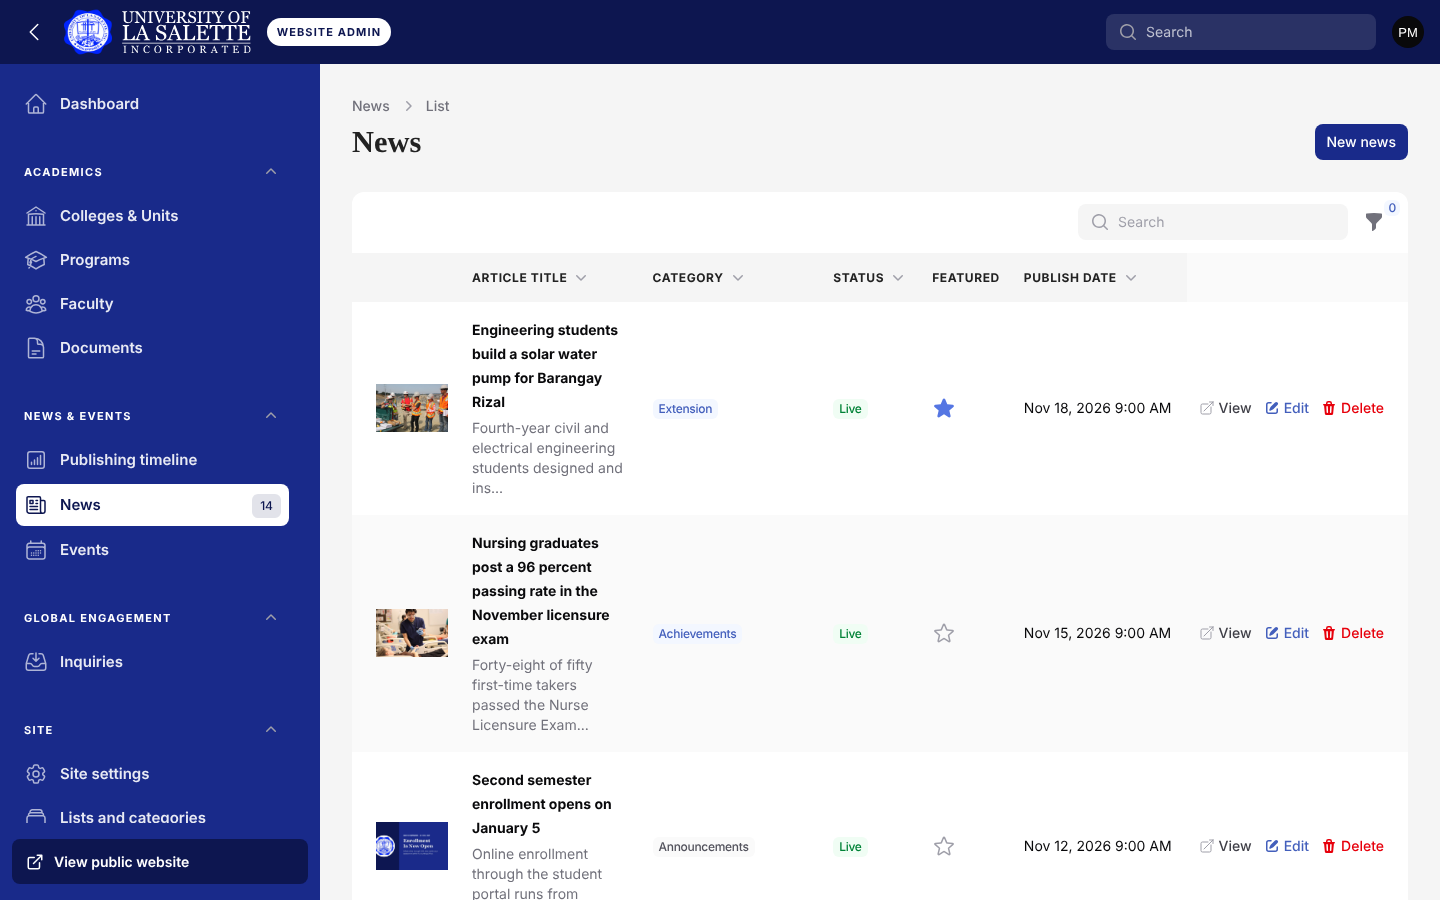
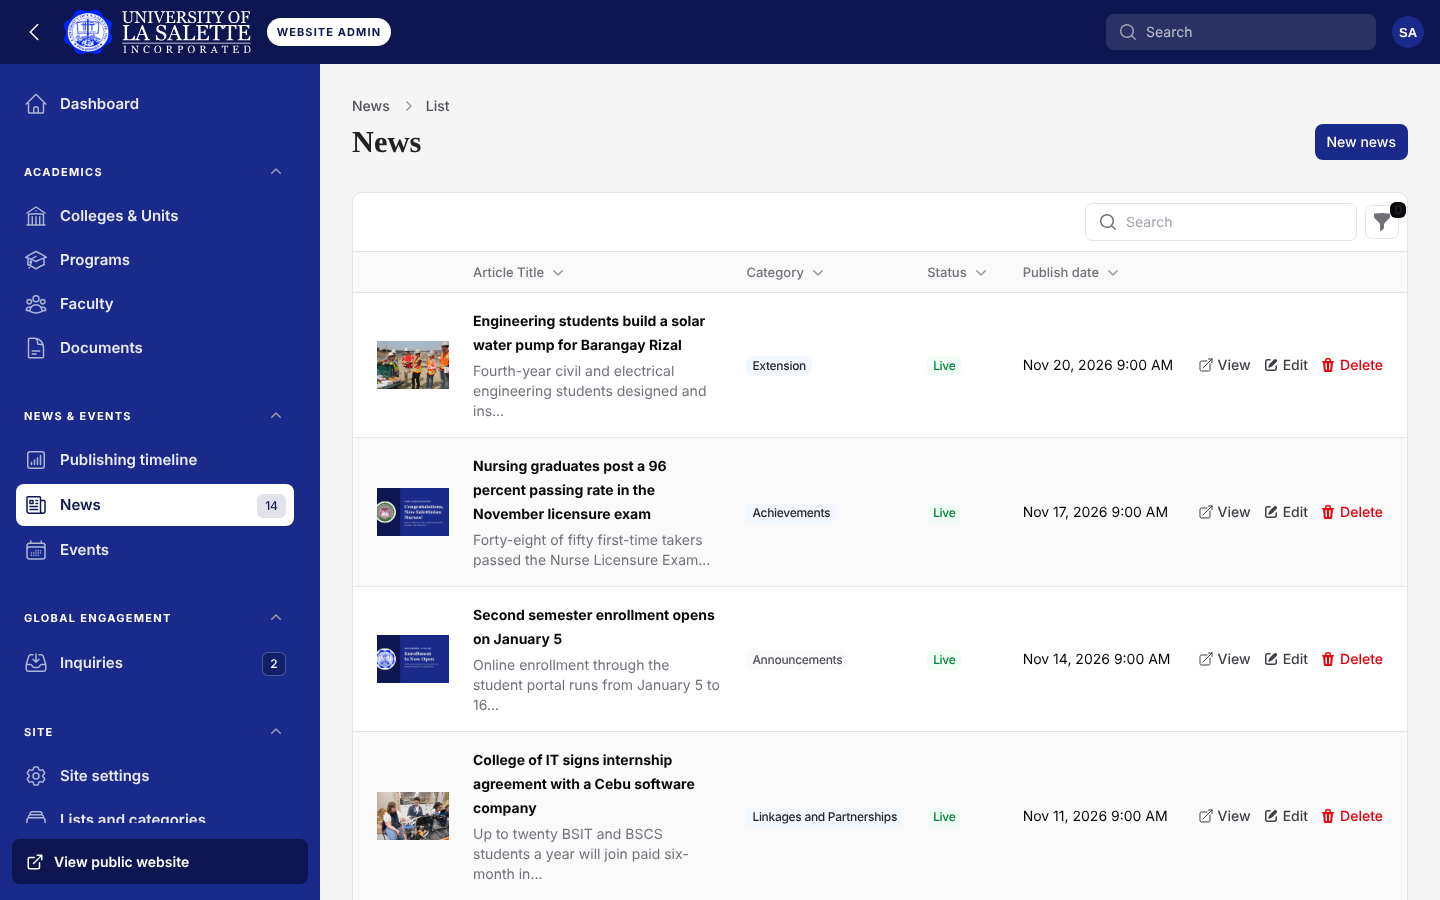
Update the README for v0.2.0
- Version badge, download link and summary for v0.2.0
- Retake the screenshots with the new news front page, article header, admin
  data grid and three-pane news editor (edit and phone preview); the old
  publishing-form screenshot is replaced by the editor
- New: the news editor and its preview, admin tables on smaller screens,
  thumbs:warm in install and performance, what the accessibility checks cover
- Remove the colour-mode section (the site and admin are light only)
- Correct the query counts and the description of the site's script

Claude-Session: https://claude.ai/code/session_01LcMyg8Y3fzWt6nxCWXxJzR

diff --git a/README.md b/README.md
@@ -1,7 +1,7 @@
 <div align="center"><img src="public/media/uls-seal.png" width="100" alt="University of La Salette seal"></div>
 <h1 align="center">ULS Academics</h1>
 <p align="center">
-  <img src="https://img.shields.io/badge/version-0.1.0-192A8A?style=flat-square" alt="version">
+  <img src="https://img.shields.io/badge/version-0.2.0-192A8A?style=flat-square" alt="version">
   <img src="https://img.shields.io/badge/status-in%20development-192A8A?style=flat-square" alt="status">
   <img src="https://img.shields.io/badge/Laravel-12-FF2D20?style=flat-square&logo=laravel&logoColor=white" alt="Laravel">
   <img src="https://img.shields.io/badge/PHP-8.4+-777BB4?style=flat-square&logo=php&logoColor=white" alt="PHP">
@@ -9,8 +9,8 @@
   <img src="https://img.shields.io/badge/MySQL-database-4479A1?style=flat-square&logo=mysql&logoColor=white" alt="MySQL">
 </p>
 <p align="center">
-  <b>Download v0.1.0:</b>
-  <a href="https://github.com/johnsonmiguel18/uls-academics/archive/refs/tags/v0.1.0.zip">Source (.zip)</a> |
+  <b>Download v0.2.0:</b>
+  <a href="https://github.com/johnsonmiguel18/uls-academics/archive/refs/tags/v0.2.0.zip">Source (.zip)</a> |
   <a href="https://github.com/johnsonmiguel18/uls-academics/releases">All releases</a>
 </p>
 
@@ -18,23 +18,26 @@ The standalone Academics website of the University of La Salette, with its own C
 (Filament admin at `/admin`), its own database and its own users. It runs next to the
 main university website (University Website v5), which is not changed.
 
-> **Current version: v0.1.0**: a news front page with one large featured story, the previous stories in a
-> 3-column grid (a swipe rail on phones), a sidebar of headline rows, and colored SDG labels that filter the news.
+> **Current version: v0.2.0**: a news front page in the style of a news site (lead story with three headlines,
+> story cards that swipe on phones, a "More headlines" column, SDG labels and a Goals filter); admin tables as
+> data grids and a three-pane news editor with a desktop and phone preview; security headers; screen reader,
+> keyboard and small-screen fixes; photo thumbnails made ahead of time.
 > See [Releases](https://github.com/johnsonmiguel18/uls-academics/releases) for the release notes.
 
 <p align="center">
-  <img width="400" alt="News front page with the featured story, previous stories and headline rows" src="docs/screenshots/news.png" />
-  <img width="400" alt="News filtered by SDG 4 with the goal filter row and colored SDG labels" src="docs/screenshots/news-filtered-by-sdg.png" />
-  <img width="400" alt="Full article page with its category and SDG labels" src="docs/screenshots/news-article.png" />
-  <img width="400" alt="SDG report with story counts for the 17 goals" src="docs/screenshots/sdg-report.png" />
-  <img width="400" alt="Admin article list with the featured column" src="docs/screenshots/admin-news.png" />
-  <img width="400" alt="Article form with publishing status and the feature switch" src="docs/screenshots/admin-news-publishing.png" />
+  <img width="400" alt="News front page: lead story with three headlines, More headlines column and the toolbar with search, categories and Goals" src="docs/screenshots/news.png" />
+  <img width="400" alt="News filtered by SDG 6, with the chosen goal shown on the Goals button" src="docs/screenshots/news-filtered-by-sdg.png" />
+  <img width="400" alt="Article page with its compact header, category and SDG labels" src="docs/screenshots/news-article.png" />
+  <img width="400" alt="SDG report: the 17 goals with story counts" src="docs/screenshots/sdg-report.png" />
+  <img width="400" alt="Admin news list as a data grid with search and filter" src="docs/screenshots/admin-news.png" />
+  <img width="400" alt="News editor in three panes: recent stories, the article on a canvas, and Publishing settings" src="docs/screenshots/admin-news-editor.png" />
+  <img width="400" alt="News editor preview of the article at phone width" src="docs/screenshots/admin-news-preview.png" />
 </p>
 
 <p align="center">
-  <img width="190" alt="Mobile news featured story" src="docs/screenshots/mobile-news.png" />
-  <img width="190" alt="Mobile news swipe rail with the next card peeking in" src="docs/screenshots/mobile-news-rail.png" />
-  <img width="190" alt="Mobile article with SDG labels" src="docs/screenshots/mobile-news-article.png" />
+  <img width="190" alt="Mobile news page with the lead story" src="docs/screenshots/mobile-news.png" />
+  <img width="190" alt="Mobile story rail with arrow buttons and dots, the next card peeking in" src="docs/screenshots/mobile-news-rail.png" />
+  <img width="190" alt="Mobile article header with SDG labels" src="docs/screenshots/mobile-news-article.png" />
   <img width="190" alt="Mobile SDG report with goals served per college" src="docs/screenshots/mobile-sdg-report.png" />
 </p>
 
@@ -50,6 +53,7 @@ php artisan key:generate
 php artisan migrate               # tables + roles: super_admin, admin, editor, college_admin
 php artisan db:seed               # site settings and lists, then colleges, programs, deans from the current ULS website
 php artisan storage:link
+php artisan thumbs:warm           # WebP thumbnails of the seeded photos
 npm ci && npm run build           # site scripts into public/build (run again after every update)
 
 php artisan make:filament-user                 # first administrator
@@ -104,24 +108,23 @@ own subdomain. Academics pages then stay on `APP_URL`'s host and `/global` redir
 
 ## Accessibility (WCAG 2.2 AA)
 
-The public pages were checked at desktop and phone widths for contrast (SDG badges use the
+The public pages and the admin were checked at desktop and phone widths for contrast (SDG badges use the
 text color that passes on each official SDG color), image alt text, link, button and form labels,
-heading order, landmarks, focus rings and 24 px touch targets. To re-check after design changes:
+heading order, landmarks, focus rings and 24 px touch targets. axe (WCAG 2.2 AA) reports no violations on any
+public page or on 18 admin pages. Screen reader checks (the browser's accessibility tree and a virtual screen
+reader): every search form, navigation and landmark has its own name, the page title is inside the main area,
+SDG labels are read once. Keyboard: the skip link moves focus to the content, and every control can be reached
+and shows a focus ring. To re-check after design changes:
 
 ```bash
 pip install playwright && playwright install chromium   # once
 python3 tools/wcag_check.py https://academics.uls.edu.ph / /programs /colleges/college-of-law
-COLOR_SCHEME=dark python3 tools/wcag_check.py https://academics.uls.edu.ph / /programs /colleges/college-of-law
 ```
 
 For a second opinion, run the free axe DevTools or WAVE browser extension on the same pages.
 
-**Colour mode.** The header button (next to Enroll; beside the menu button on phones) offers System, Light and
-Dark, like the SmartKMS docs. System is the default and follows the device. A Light or Dark choice is kept in
-the browser (`localStorage`) and applied before the page paints by `public/js/theme.js`; the menu is in
-`resources/js/site.js`, its labels in Site settings → Screen reader labels. The colours are variables at the top
-of `public/css/academics.css`: change a colour there for both themes, and keep navy for fills (header, hero,
-buttons), which stay the same in dark mode. Both modes pass the contrast check above.
+**Light only.** The public site and the admin have one light theme and no colour-mode switch; pages stay
+light when the device is set to dark. The colours are variables at the top of `public/css/academics.css`.
 
 ## Everything on the site is managed in the admin
 
@@ -180,14 +183,15 @@ Production server (XAMPP); these are server settings, not part of the repository
   With `CACHE_STORE=file` and `SESSION_DRIVER=file` a cached page runs no database query at all
   (with `database` it ran 7: 4 cache reads and 3 for the session), about 25% faster to the first byte.
   `redis` works too; use it when several servers share the site.
-- **Database**: indexes for every public query; pages run 2–13 queries; lazy loading is blocked outside
-  production, so a missing eager load (N+1) fails in development and tests.
+- **Database**: indexes for every public query; a page built fresh runs 8–20 queries and a cached page none;
+  lazy loading is blocked outside production, so a missing eager load (N+1) fails in development and tests.
 - **Images**: cards and headers use WebP thumbnails at 480 and 960 px (a 221 KB photo becomes a 31 KB card image),
   with `srcset`, fixed width/height (no layout shift) and lazy loading below the fold; the header photo is
-  preloaded. Uploads larger than 1920 px are shrunk in the browser before upload.
+  preloaded. Uploads larger than 1920 px are shrunk in the browser before upload. Thumbnails are made when an
+  image is saved in the admin; `php artisan thumbs:warm` makes any that are missing (e.g. photos copied in by hand).
 - **CSS per page**: a core stylesheet plus a small one for the page type (college, program, finder, news cards).
   News pages take only the main website's rules they use (`news.css`, 13 KB instead of 97 KB).
-  No JavaScript framework on the public site; the few scripts are inline and tiny.
+  No JavaScript framework on the public site: one small built script (`resources/js/site.js`, about 4 KB compressed).
 - **CDN**: set `ASSET_URL` to a pull CDN in front of the site; all CSS, images, thumbnails and uploads load from it.
   `public/.htaccess` already sets long browser caching for versioned CSS/JS and images, plus compression.
 - **Smooth loading**: page-to-page transitions in supporting browsers, skeleton cards while finder results load,
@@ -210,6 +214,16 @@ admins if you remove their `publish_news` permission) can only save drafts and s
 **News & Events → Publishing timeline** shows every story as a bar from its publish date to its
 take-down date, grouped by college and colored by status, with events alongside. Drag a bar
 (or focus it and press Alt + ← / →) to move it by days. Stories not scheduled yet are listed below.
+
+**The news editor** (News → New or Edit) has three panes, like a page builder: recently edited stories and
+**New story** on the left; the article (headline, summary, content) on a canvas in the middle; Publishing, Details
+and Image tabs on the right. **Preview** shows the last saved version as the real article page, at desktop or phone
+width, drafts included (`/admin/news/{id}/preview`, only for people who may edit that story, never indexed or cached).
+Save and Cancel stay in view, and the admin warns before leaving a form with unsaved changes. On screens narrower
+than 1280 px the story list is hidden; on phones the panes stack.
+
+Admin lists are data grids with the same search, filters, sorting and paging as before. On tablets and small
+laptops the row actions become icons and less important columns are hidden.
 
 Scheduled stories appear on the website on time by themselves. To keep the admin status labels
 current, add Laravel's scheduler to the server's crontab once:
